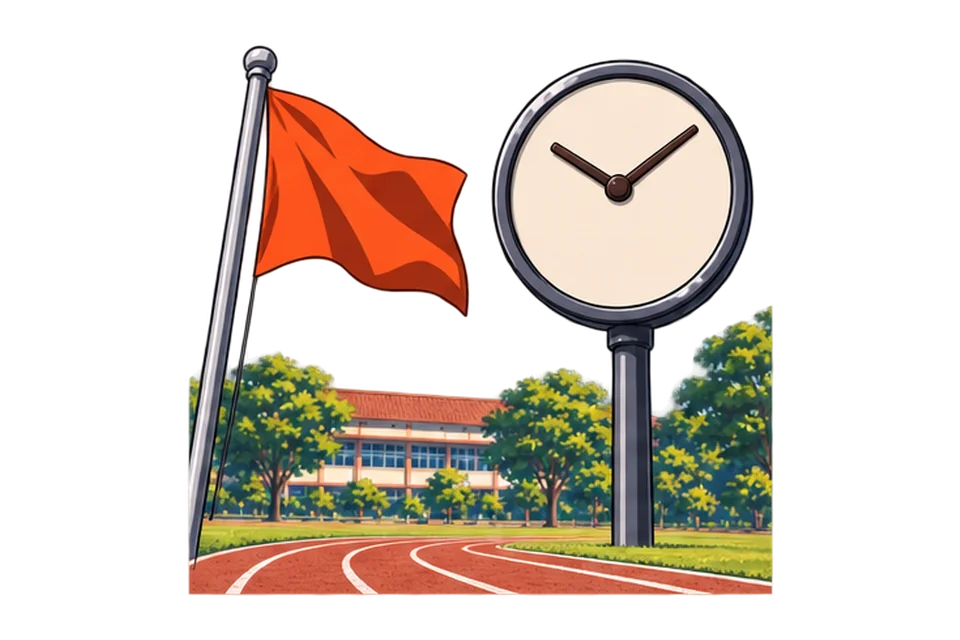
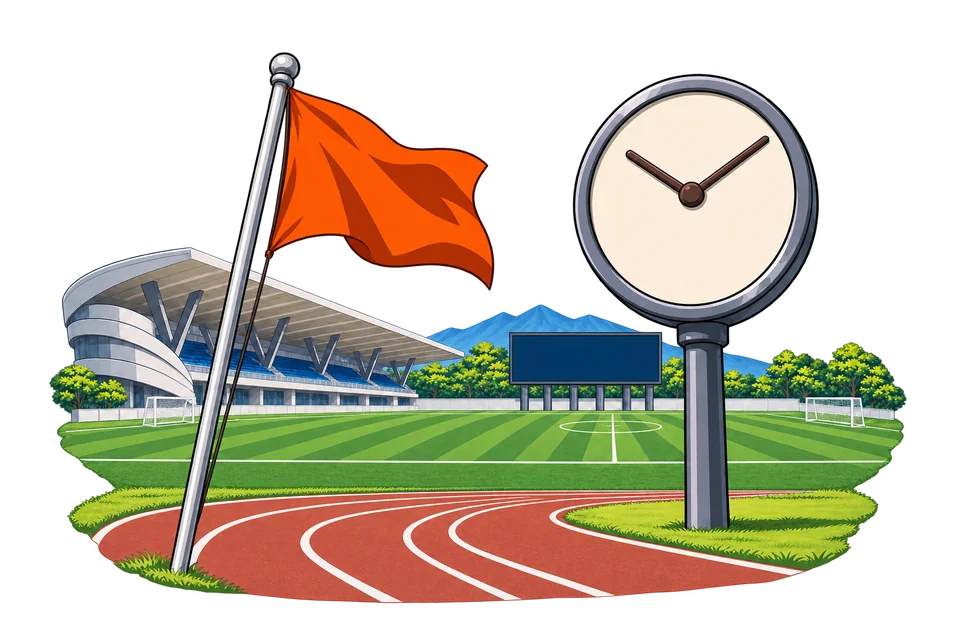
desain(G10-13): stadion Supersoccer Arena pada enam gambar berlatar stadion (#201)
Latar tribun halaman depan, gerbang pendaftaran tutup, latar lampu stadion, pita judul Jadwal, dan gambar bagikan Jadwal serta Peserta digambar ulang mirip Supersoccer Arena Kudus (K158), nama berkas sama.

diff --git a/desain/catatan/G10-13.md b/desain/catatan/G10-13.md
@@ -1,0 +1,29 @@
+# G10-13 Stadion Supersoccer Arena
+
+| Berkas di `public/aset/gambar/` | Ukuran (piksel) | Format | KB | Batas (KB) |
+|---|---|---|---:|---:|
+| `beranda/latar-angka.webp` | 1920 × 900 | WebP | 199,42 | 200 |
+| `keadaan/pendaftaran-tutup.webp` | 800 × 600 | WebP alfa | 93,74 | 100 |
+| `pola/bintik-stadion.webp` | 1920 × 1080 | WebP | 74,10 | 140 |
+| `judul/jadwal.webp` | 960 × 640 | WebP alfa | 106,05 | 110 |
+| `bagikan/jadwal.jpg` | 1200 × 630 | JPG kualitas 82 | 135,45 | 160 |
+| `bagikan/peserta.jpg` | 1200 × 630 | JPG kualitas 82 | 158,11 | 160 |
+
+Satu KB setara 1.000 bita. Ukuran, format, alfa, besar berkas, serta ketiadaan EXIF dan XMP diperiksa dengan Pillow setelah ekspor.
+
+## Prompt dasar
+
+> 2D cel-shaded sports anime illustration, school-age track athletes, dynamic sprint poses, bold linework, crisp shadow shapes, low-angle track composition, brand-colored jerseys. Clean background, no text, no letters, no numbers, no logos, no watermark, modest sportswear, Indonesian school kids, original characters.
+
+Garis tinta tegas, bayangan tajam dua hingga tiga tingkat, dan palet kaus mengacu pada `gaya-anime-lintasan.webp` serta G10-01. Empat foto SSA di `desain/referensi/` menjadi rujukan bentuk stadion untuk ilustrasi baru. Panel di tepi lapangan memakai warna polos dan videotron berlayar kosong. Adegan tanpa tokoh memakai lintasan kosong.
+
+| Berkas | Arahan adegan | Ciri SSA yang digambar |
+|---|---|---|
+| `beranda/latar-angka.webp` | Pandangan lebar dari sisi lintasan pada siang hari, dengan tribun di kanan dan langit yang lapang. | Atap kantilever putih bersirip, tiang miring, fasad melengkung berpanel putih dan abu-abu, lintasan merah bata di depan rumput sintetis, dan Gunung Muria di cakrawala. |
+| `keadaan/pendaftaran-tutup.webp` | Gerbang terkunci dan gembok di tengah, gedung di belakang, serta awan jingga dengan ruang transparan di sekeliling. | Pagar putih, ujung gedung tribun melengkung, tiang baja miring, dan atap bersirip yang menjorok. |
+| `pola/bintik-stadion.webp` | Pandangan rendah dari tikungan lintasan saat senja biru-jingga. Berkas berlatar penuh dengan fokus lembut dan sorot lampu bergaris. | Siluet atap putih bersirip, tiang miring, ujung tribun yang melengkung, lintasan merah bata, dan punggung Gunung Muria di kejauhan. |
+| `judul/jadwal.webp` | Bendera start jingga dan jam dengan dua jarum tanpa angka di atas potongan lintasan. Seluruh adegan berada di tengah kanvas transparan. | Videotron polos di seberang rumput sintetis bergaris putih, lintasan merah bata, atap tribun bersirip, tiang miring, dan siluet Gunung Muria. |
+| `bagikan/jadwal.jpg` | Tokoh D berkaus biru muda dalam posisi start jongkok pada pagi hari, dengan bendera jingga di sisi kanannya. Tokoh dan bendera masuk potongan persegi tengah 630 × 630. | Lintasan merah bata, atap putih bersirip dan tiang miring di kiri, serta siluet biru Gunung Muria di belakang. |
+| `bagikan/peserta.jpg` | A berkuncir, B berjilbab olahraga, C berkaus oranye, dan D berambut ikal melambai di tribun. Empat wajah, tangan yang melambai, dan videotron masuk potongan persegi tengah 630 × 630. | Pagar besi tribun, atap bersirip dan tiang miring di atas, rumput sintetis bergaris putih, dan videotron besar di seberang lapangan. |
+
+Logo resmi dari `sumber/logo/logo-milklife-athletics-challenge.webp` ditempel dengan Pillow setelah ilustrasi selesai. Alfa dan warna sumber dipertahankan saat komposit. Logo diperkecil sekitar seperlima lebar dada dan diberi sedikit perspektif mengikuti kain. Logo ditempel pada dada D di `bagikan/jadwal.jpg` dan pada dada A, B, C, dan D di `bagikan/peserta.jpg`. Detail halus pada `bagikan/peserta.jpg` sedikit dilembutkan saat ekspor agar tetap di bawah 160 KB pada kualitas 82.
